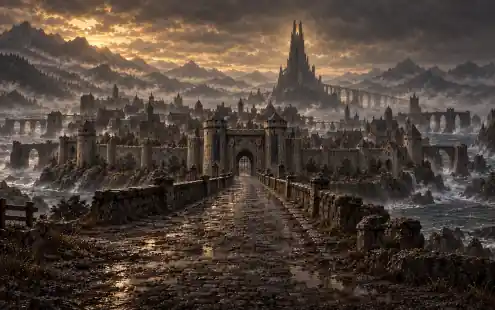
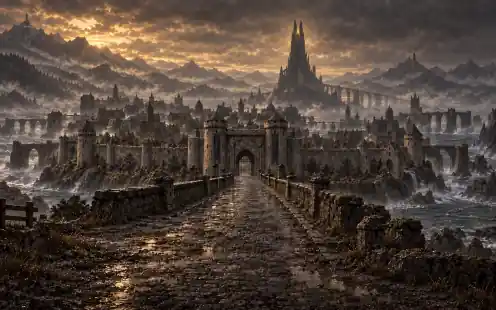
Regenerate the Crownfall mobile twins; receipt to 0.7.1.477
#1307 replaced the Crownfall prologue art, and its mobile twin came out
495x310 where the policy wants 496x310, so mobile-art --check (ci.yml and
dev-preview.yml) went red on dev. Regenerated with node tools/mobile-art.mjs.

Claude-Session: https://claude.ai/code/session_01FqwuWTF88N1tY46kdYyKQM

diff --git a/src/content/changelog.generated.js b/src/content/changelog.generated.js
@@ -7,8 +7,8 @@ export const GENERATED_CHANGELOG = Object.freeze([
     "date": "2026-09-24",
     "group": "2026-09-24",
     "summary": "Behind the scenes: the architecture check passes again",
-    "detail": "Nothing you play changes. The automated architecture check keeps browser code out of the game's rules and data layers, and it had failed on every build. The code that saves a settings file to your device now lives with the rest of the interface code, and it saves the same way as before. Settings → Advanced now calls its two size controls \"Settings panel width\" and \"Settings panel height\"; they were labelled \"Settings window\".",
-    "build": "0.7.1.475",
+    "detail": "Nothing you play changes. The automated architecture check keeps browser code out of the game's rules and data layers, and it had failed on every build. The code that saves a settings file to your device now lives with the rest of the interface code, and it saves the same way as before. Settings → Advanced now calls its two size controls \"Settings panel width\" and \"Settings panel height\"; they were labelled \"Settings window\". The phone edition's copies of the Crownfall prologue pictures are regenerated at the size the phone build expects, after #1307 left one a pixel narrow.",
+    "build": "0.7.1.477",
     "pullRequest": 1306,
     "url": "https://github.com/cehinds/AshenSpire/pull/1306"
   },

diff --git a/AshenSpire.html b/AshenSpire.html
@@ -1,3 +1,3 @@
 version https://git-lfs.github.com/spec/v1
-oid sha256:6f8973205257cda5196f8c70f11c7dba9b34b8d14ed471a986f5222b10c672fc
-size 257693276
+oid sha256:87b0ac4826537339248df26644dc22b9ed12f9ddae81a0c434b5fa0454131571
+size 257693428

diff --git a/build/AshenSpire.html b/build/AshenSpire.html
@@ -1,3 +1,3 @@
 version https://git-lfs.github.com/spec/v1
-oid sha256:6f8973205257cda5196f8c70f11c7dba9b34b8d14ed471a986f5222b10c672fc
-size 257693276
+oid sha256:87b0ac4826537339248df26644dc22b9ed12f9ddae81a0c434b5fa0454131571
+size 257693428

diff --git a/dist/AshenSpire.html b/dist/AshenSpire.html
@@ -1,3 +1,3 @@
 version https://git-lfs.github.com/spec/v1
-oid sha256:6f8973205257cda5196f8c70f11c7dba9b34b8d14ed471a986f5222b10c672fc
-size 257693276
+oid sha256:87b0ac4826537339248df26644dc22b9ed12f9ddae81a0c434b5fa0454131571
+size 257693428

diff --git a/AshenSpire-mobile.html b/AshenSpire-mobile.html
@@ -1,3 +1,3 @@
 version https://git-lfs.github.com/spec/v1
-oid sha256:c61da12ff861976e1ef3602165102ea0cccf098ec59cdd027e54d8efc41fc029
-size 29082110
+oid sha256:ccdb3f38740b4bfa03abe1ccd0f19967792ec4ca3f66f9791d98b9b6e64c92e2
+size 29081210

diff --git a/build/AshenSpire-mobile.html b/build/AshenSpire-mobile.html
@@ -1,3 +1,3 @@
 version https://git-lfs.github.com/spec/v1
-oid sha256:c61da12ff861976e1ef3602165102ea0cccf098ec59cdd027e54d8efc41fc029
-size 29082110
+oid sha256:ccdb3f38740b4bfa03abe1ccd0f19967792ec4ca3f66f9791d98b9b6e64c92e2
+size 29081210

diff --git a/dist/AshenSpire-mobile.html b/dist/AshenSpire-mobile.html
@@ -1,3 +1,3 @@
 version https://git-lfs.github.com/spec/v1
-oid sha256:c61da12ff861976e1ef3602165102ea0cccf098ec59cdd027e54d8efc41fc029
-size 29082110
+oid sha256:ccdb3f38740b4bfa03abe1ccd0f19967792ec4ca3f66f9791d98b9b6e64c92e2
+size 29081210

diff --git a/CHANGELOG.md b/CHANGELOG.md
@@ -34,7 +34,7 @@ A receipt here names the pull request that landed a change; inventing one to fit
 
 ## 2026-09-24
 
-- **Behind the scenes: the architecture check passes again** ([#1306](https://github.com/cehinds/AshenSpire/pull/1306), `0.7.1.475`). Nothing you play changes. The automated architecture check keeps browser code out of the game's rules and data layers, and it had failed on every build. The code that saves a settings file to your device now lives with the rest of the interface code, and it saves the same way as before. Settings → Advanced now calls its two size controls "Settings panel width" and "Settings panel height"; they were labelled "Settings window".
+- **Behind the scenes: the architecture check passes again** ([#1306](https://github.com/cehinds/AshenSpire/pull/1306), `0.7.1.477`). Nothing you play changes. The automated architecture check keeps browser code out of the game's rules and data layers, and it had failed on every build. The code that saves a settings file to your device now lives with the rest of the interface code, and it saves the same way as before. Settings → Advanced now calls its two size controls "Settings panel width" and "Settings panel height"; they were labelled "Settings window". The phone edition's copies of the Crownfall prologue pictures are regenerated at the size the phone build expects, after #1307 left one a pixel narrow.
 - **The map's music follows where you stand, and the bright map tracks are gone** ([#1302](https://github.com/cehinds/AshenSpire/pull/1302), `0.7.1.469`). The two recorded map tracks were too upbeat for a land after the Burning and have been withdrawn; the map plays its generated score again. The map now asks for music by region — the Hollow Weald, the Pale Marches, the Cinder Reach, the Drowned Coast and the Ashen Crown each have their own slot, with slow, dark prompts in `music/PROMPTS.md` — and a region without a recorded track plays the plain map music. The victory hymn is cut from three minutes to its first full phrase, about a minute.
 - **Behind the scenes: every card, relic and event has a way in** ([#1281](https://github.com/cehinds/AshenSpire/pull/1281), `0.7.1.466`). Nothing you play changes. A new check walks the game's content and finds a route by which each card, relic and event can actually reach a player, so nothing authored sits unreachable.
 - **Behind the scenes: leaving a fight and coming back is now tested** ([#1280](https://github.com/cehinds/AshenSpire/pull/1280), `0.7.1.465`). Nothing you play changes. A new automated test abandons a run in the middle of a fight, reloads it, and checks that you land back at the fight's start with the same deck, HP and enemies, as the spec promises.
